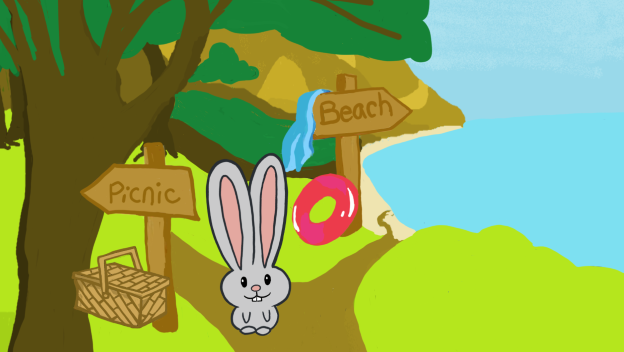
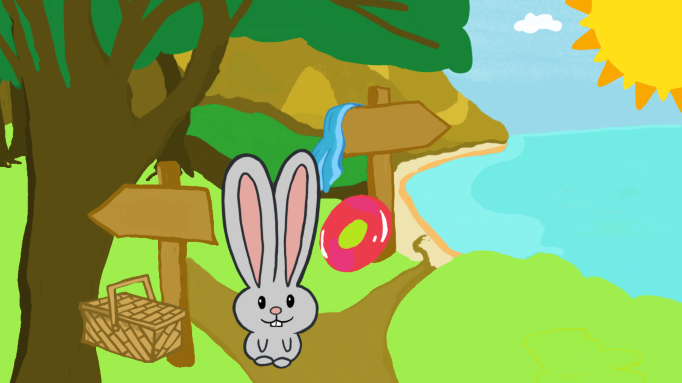
Update story.

diff --git a/src/index.html b/src/index.html
@@ -22,7 +22,7 @@
           <span class="title-word title-word-3">Fun</span>
         </h1>
         <div class="parent">
-          <img class="image1" src="./img/title.png" />
+          <img class="image1" src="./img/title5.png" />
           <img class="image2" src="./img/rabbit.png" />
           <img class="image3" src="./img/giraffeLeft.png" />
           <img class="image4" src="./img/dragon.png" />
@@ -50,12 +50,49 @@
         <div id="helpSun">
           <strong><span class='pop-out' id="sun">Sunny</span</strong>
         </div> 
-    
+        <div id="picnicOption">
+          <strong><span class='pop-out' id="basket">Picnic</span</strong>
+        </div> 
+        <div id="swimOption">
+          <strong><span class='pop-out' id="swim">Swimming</span</strong>
+        </div> 
+        <div id="helpRainbow">
+          <strong><span class='pop-out' id="party">Rainbow</span</strong>
+        </div> 
       </div>
     </div>
+
+    <div id="unicornParty" class="container">
+      <img src="./img/unicornParty.png">
+      <div class="scrolling">
+      <h6><strong>Party Time!!!
+        Do you want to go on another adventure? 
+        <span class='pop-out' id='end32'>Start Over</span></strong></h6>
+      </div>
+    </div> 
+
+    <div id="swimFriends" class="container">
+      <img src="./img/swimFriends.png">
+      <div class="scrolling">
+      <h6><strong>Swimming Time!!!
+        Do you want to go on another adventure? 
+        <span class='pop-out' id='end31'>Start Over</span></strong></h6>
+      </div>
+    </div> 
+
+    <div id="picnicFriends" class="container">
+      <img src="./img/picnicFriends.png">
+      <div class="scrolling">
+      <h6><strong>Picnic Time!!!
+        Do you want to go on another adventure? 
+        <span class='pop-out' id='end30'>Start Over</span></strong></h6>
+      </div>
+    </div> 
+
+
     
     <div id="tinyPath" class="container">
-      <img src="./img/tinyPath.png" id="tPathChoice">
+      <img src="./img/tinyPath.png" class="pages">
       <div class="scrolling">
       <h6><strong>Tiny says we can go to the Beach or on a Picnic. 
         Should we go right to the Beach or left to a Picnic?
@@ -65,7 +102,7 @@
     </div>  
 
     <div id="sunPicnic" class="container">
-      <img src="./img/sunPicnic.png">
+      <img src="./img/sunPicnic.png" class="pages">
       <div class="scrolling">
       <h6><strong>Sunny says we can have a Picnic. 
         Who should we invite to my Picnic?

diff --git a/src/css/styles.css b/src/css/styles.css
@@ -8,15 +8,19 @@ body {
   font-size: 30px;
 }
 
+.pages{
+  border: 5px solid #1b3d6d;
+}
+
 #helpSun {
-  margin-top: -2%;
-  margin-left: 80%;
+  margin-top: -5%;
+  margin-left: 82%;
   color: rgb(230, 122, 80);
 }
 
 #helpDragon {
-  margin-top: -44%;
-  margin-left: 43%;
+  margin-top: -40%;
+  margin-left: 40%;
   color: rgb(243, 235, 241);
 }
 
@@ -30,6 +34,24 @@ body {
   margin-top: -4%;
   margin-left: 72%;
   color: rgb(40, 183, 24);
+}
+
+#picnicOption {
+  margin-top: -9%;
+  margin-left: 87%;
+  color: rgb(211, 46, 175);
+}
+
+#swimOption {
+  margin-top: -6%;
+  margin-left: 2%;
+  color: rgb(211, 46, 175);
+}
+
+#helpRainbow {
+  margin-top: -20%;
+  margin-left: 5%;
+  color: rgb(84, 42, 183);
 }
 
 
@@ -242,8 +264,8 @@ img {
   height: 210px;
   size: relative;
   position: absolute;
-  top: 1%;
-  left: 38%;
+  top: 8%;
+  left: 36%;
   animation: shake 3s;
   animation-iteration-count: infinite
 }
@@ -440,3 +462,13 @@ color:rgb(237, 19, 168);
   display: none;
 }
 
+#picnicFriends{
+  display: none;
+}
+#swimFriends{
+  display: none;
+}
+
+#unicornParty {
+  display: none;
+}

diff --git a/src/Index.js b/src/Index.js
@@ -4,7 +4,43 @@ import 'bootstrap/dist/css/bootstrap.min.css';
 import './css/styles.css';
 
 
+
+
 $(document).ready(function() {
+
+/*Unicorn Party Starts*/
+$('#party').click(function(){
+  $('#page1').hide();
+  $('#unicornParty').show();
+});
+
+$('#end32').click(function(){
+  $('#unicornParty').hide();
+  $('#page1').show();
+});
+
+/*Picnic Friends Starts*/
+$('#basket').click(function(){
+  $('#page1').hide();
+  $('#picnicFriends').show();
+});
+
+$('#end30').click(function(){
+  $('#picnicFriends').hide();
+  $('#page1').show();
+});
+
+/*Swim FriendstStarts*/
+$('#swim').click(function(){
+  $('#page1').hide();
+  $('#swimFriends').show();
+});
+
+$('#end31').click(function(){
+  $('#swimFriends').hide();
+  $('#page1').show();
+});
+
 
 /* Sunny Unicorn/Picnic Starts*/
 $('#sun').click(function(){
